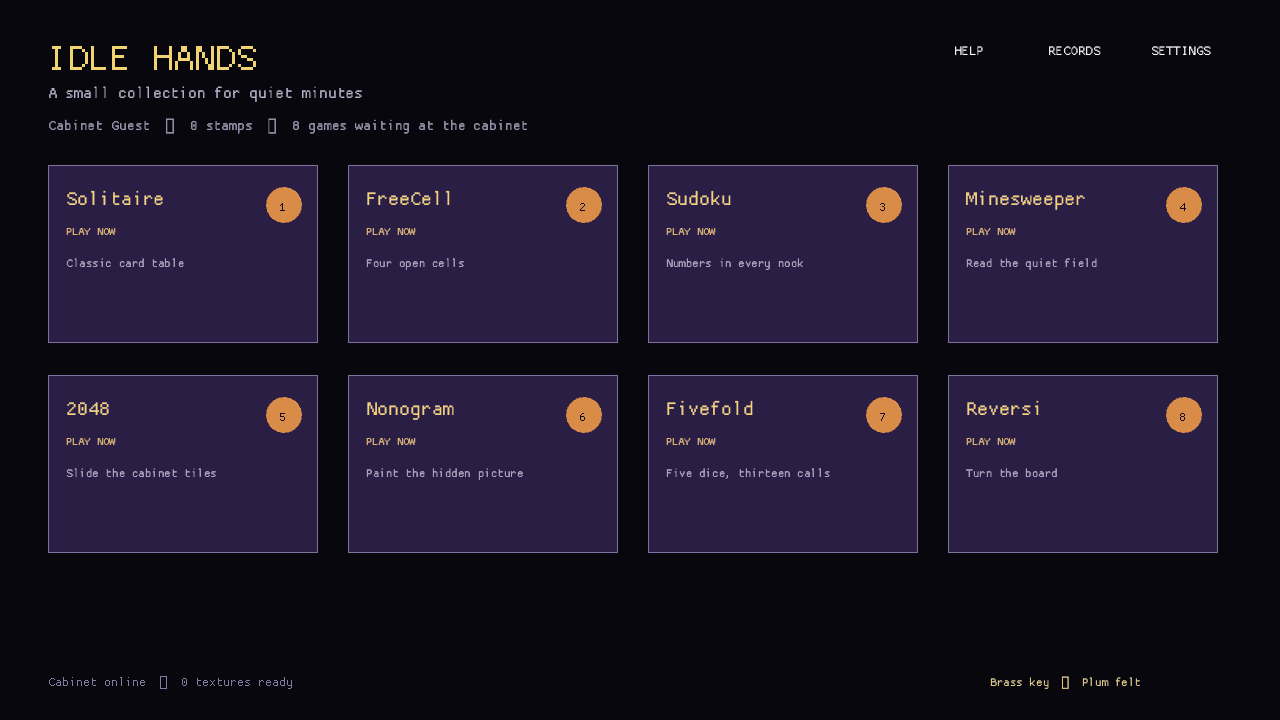
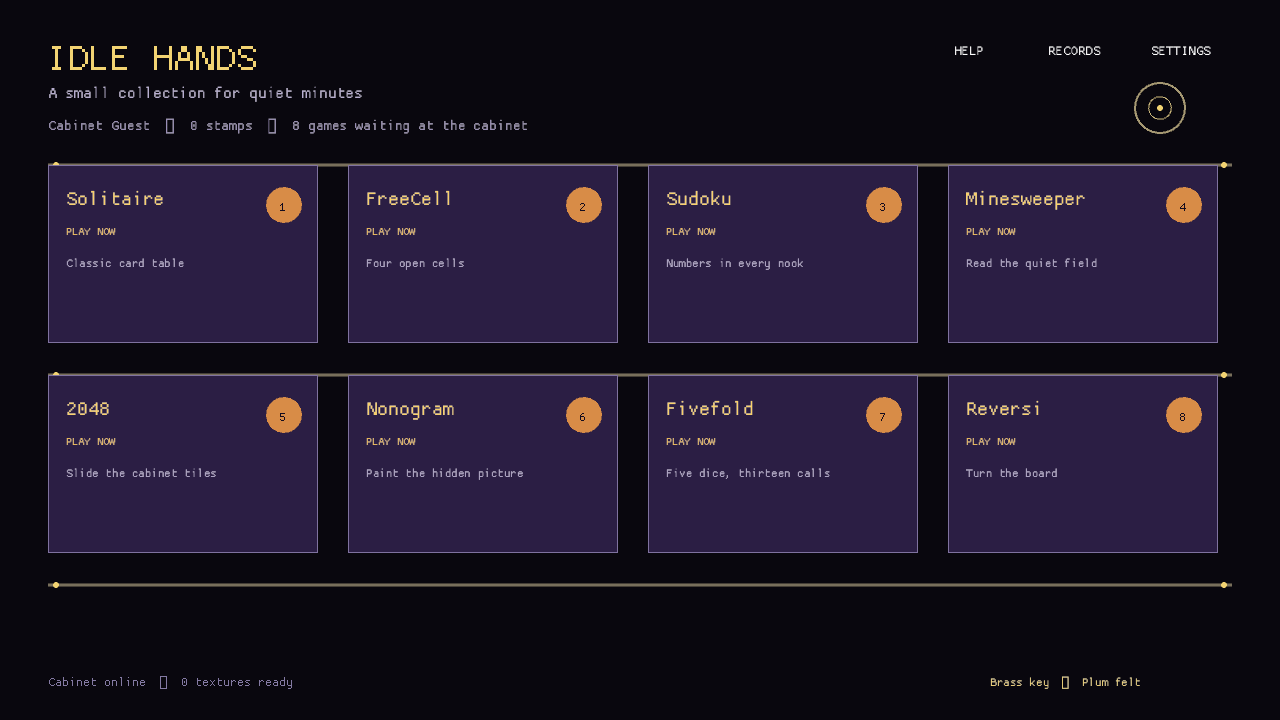
The cabinet gains a quiet frame (Cabinet art polish)
The cabinet cards now sit inside shared shelf rails with a small accent motif across desktop, portrait, and medium-landscape layouts. The updated verification captures document the responsive result, and the TODO now records the completed art milestone.

diff --git a/src/cabinet_art.rs b/src/cabinet_art.rs
@@ -1,0 +1,32 @@
+//! Shared furniture marks for the responsive game cabinet layouts.
+
+use macroquad::prelude::*;
+
+pub fn draw_shelves(x: f32, y: f32, width: f32, height: f32, accent: Color) {
+    let shelf_gap = height / 2.;
+    for shelf in 0..=2 {
+        let shelf_y = y + shelf as f32 * shelf_gap;
+        let rail = Color::new(accent.r, accent.g, accent.b, 0.32);
+        draw_line(x, shelf_y, x + width, shelf_y, 3., rail);
+        draw_circle(x + 8., shelf_y, 3., accent);
+        draw_circle(x + width - 8., shelf_y, 3., accent);
+    }
+}
+
+pub fn draw_header_motif(x: f32, y: f32, radius: f32, accent: Color) {
+    draw_circle_lines(
+        x,
+        y,
+        radius,
+        2.,
+        Color::new(accent.r, accent.g, accent.b, 0.55),
+    );
+    draw_circle_lines(
+        x,
+        y,
+        radius * 0.45,
+        1.,
+        Color::new(accent.r, accent.g, accent.b, 0.75),
+    );
+    draw_circle(x, y, 3., accent);
+}

diff --git a/src/ui.rs b/src/ui.rs
@@ -347,13 +347,10 @@ fn panel(r: Rect, fill: Color) {
     draw_rectangle_lines(r.x, r.y, r.w, r.h, 2., Color::new(0.45, 0.38, 0.65, 0.65))
 }
 fn draw_cabinet(state: &AppState, data: &GameData, loaded: usize) {
-    text(
-        "IDLE HANDS",
-        46.,
-        70.,
-        48.,
-        cosmetics::cabinet_accent(state.cabinet_decoration),
-    );
+    let accent = cosmetics::cabinet_accent(state.cabinet_decoration);
+    text("IDLE HANDS", 46., 70., 48., accent);
+    crate::cabinet_art::draw_header_motif(1160., 108., 24., accent);
+    crate::cabinet_art::draw_shelves(48., 165., 1184., 420., accent);
     text(
         "A small collection for quiet minutes",
         48.,

diff --git a/src/responsive_ui.rs b/src/responsive_ui.rs
@@ -37,13 +37,10 @@ pub fn cabinet_rect(index: usize) -> Rect {
 }
 
 pub fn draw_cabinet(state: &AppState, _data: &GameData, loaded: usize) {
-    text(
-        "IDLE HANDS",
-        18.,
-        55.,
-        30.,
-        cosmetics::cabinet_accent(state.cabinet_decoration),
-    );
+    let accent = cosmetics::cabinet_accent(state.cabinet_decoration);
+    text("IDLE HANDS", 18., 55., 30., accent);
+    crate::cabinet_art::draw_header_motif(332., 52., 13., accent);
+    crate::cabinet_art::draw_shelves(8., 115., 344., 512., accent);
     text(
         "Quiet games for a small screen",
         18.,

diff --git a/src/responsive_landscape.rs b/src/responsive_landscape.rs
@@ -37,13 +37,10 @@ fn cabinet_rect(index: usize) -> Rect {
 }
 
 pub fn draw_cabinet(state: &AppState, _data: &GameData, loaded: usize) {
-    text(
-        "IDLE HANDS",
-        12.,
-        30.,
-        25.,
-        cosmetics::cabinet_accent(state.cabinet_decoration),
-    );
+    let accent = cosmetics::cabinet_accent(state.cabinet_decoration);
+    text("IDLE HANDS", 12., 30., 25., accent);
+    crate::cabinet_art::draw_header_motif(812., 28., 13., accent);
+    crate::cabinet_art::draw_shelves(8., 54., 828., 242., accent);
     text(
         "Quiet games for a wider pause",
         190.,

diff --git a/src/main.rs b/src/main.rs
@@ -4,6 +4,7 @@ use macroquad::prelude::*;
 use macroquad_toolkit::capture;
 
 mod accessibility;
+mod cabinet_art;
 mod card_hints;
 mod card_render;
 mod cards;

diff --git a/TODO.md b/TODO.md
@@ -135,10 +135,12 @@ sizes, covered by rule tests, and passes `publish.ps1`.
   - [x] Add stamp-gated card backs, board themes, and cabinet decorations with
     persisted touch-selectable choices.
   - [x] Connect the sound-set choices to generated audio cues.
-- [ ] Finish coherent cabinet art, object states, transitions, audio, and reduced
+- [x] Finish coherent cabinet art, object states, transitions, audio, and reduced
   motion substitutions.
   - [x] Add cabinet completion/in-progress states and a reduced-motion-safe fade
     transition between screens.
+  - [x] Add shared shelf rails and an accent motif to desktop, portrait, and
+    medium-landscape cabinet scenes.
 - [x] Add complete Rules, Records, Help, Settings, credits, and reset-data flows.
   - [x] Add a persisted Records screen covering current best scores and solves.
   - [x] Add first-run and replayable tutorials with exact visible touch instructions.
